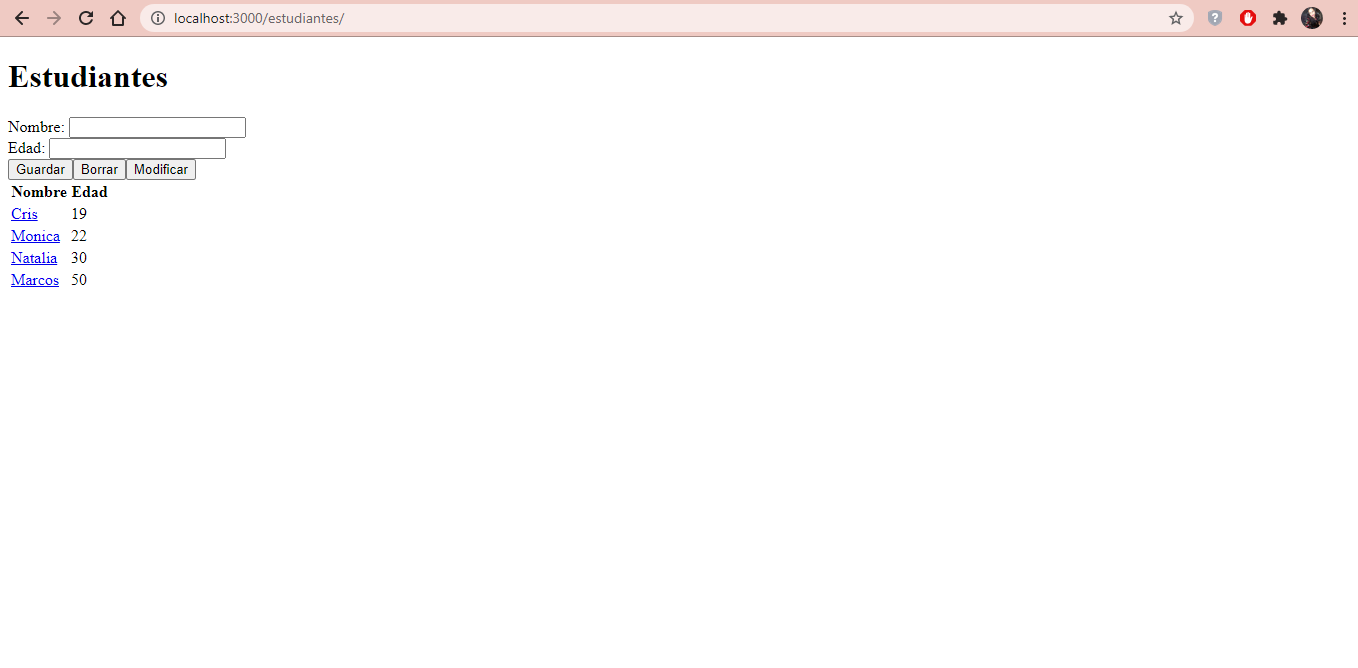
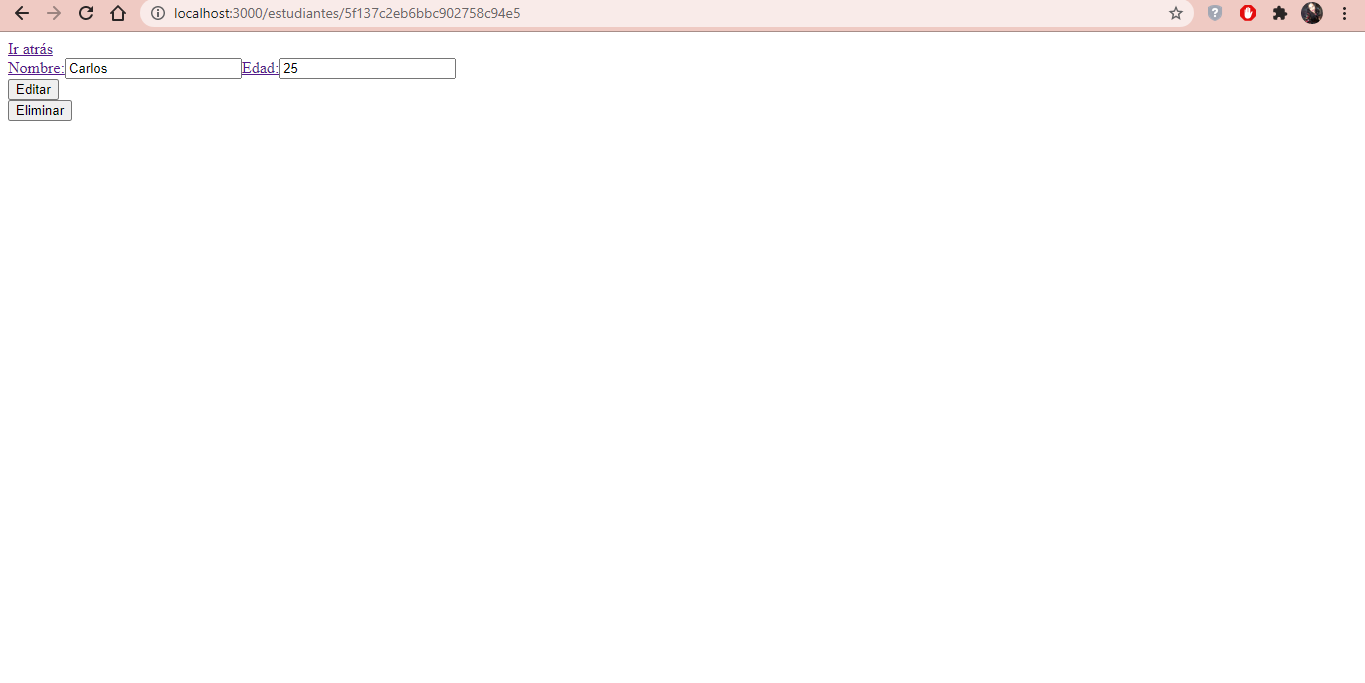
act

Changed region(s): [[0.0, 0.0, 1.0, 0.4491], [0.1546, 0.0898, 0.2474, 0.1198], [0.3093, 0.0898, 0.3402, 0.1198]]

diff --git a/app.js b/app.js
@@ -40,17 +40,16 @@ app.post('/estudiantes', async (req, res) => {
     res.render('estudiantes', { estudiantes });
 });
 
-app.put('/estudiantes', async (req, res) => {
+app.post('/estudiantes/update/:id', async (req, res) => {
     const { nombre, edad } = req.body;
-    await Estudiantes.update({ nombre, edad });
-    const estudiante = await Estudiantes.findById(req.params.id).select('nombre edad');
+    await Estudiantes.findById(req.params.id).update({ nombre, edad });
+    const estudiantes = await Estudiantes.find().select('nombre edad');
     res.render('estudiantes', { estudiantes });
 });
 
-app.delete('/estudiantes', async (req, res) => {
-    const { nombre, edad } = req.body;
-    await Estudiantes.remove({ nombre, edad });
-    const estudiante = await Estudiantes.findById(req.params.id).select('nombre edad');
+app.post('/estudiantes/delete/:id' ,async (req ,res) => {
+    await Estudiantes.findByIdAndDelete(req.params.id);
+    const estudiantes = await Estudiantes.find().select('nombre edad');
     res.render('estudiantes', { estudiantes });
 });
 
